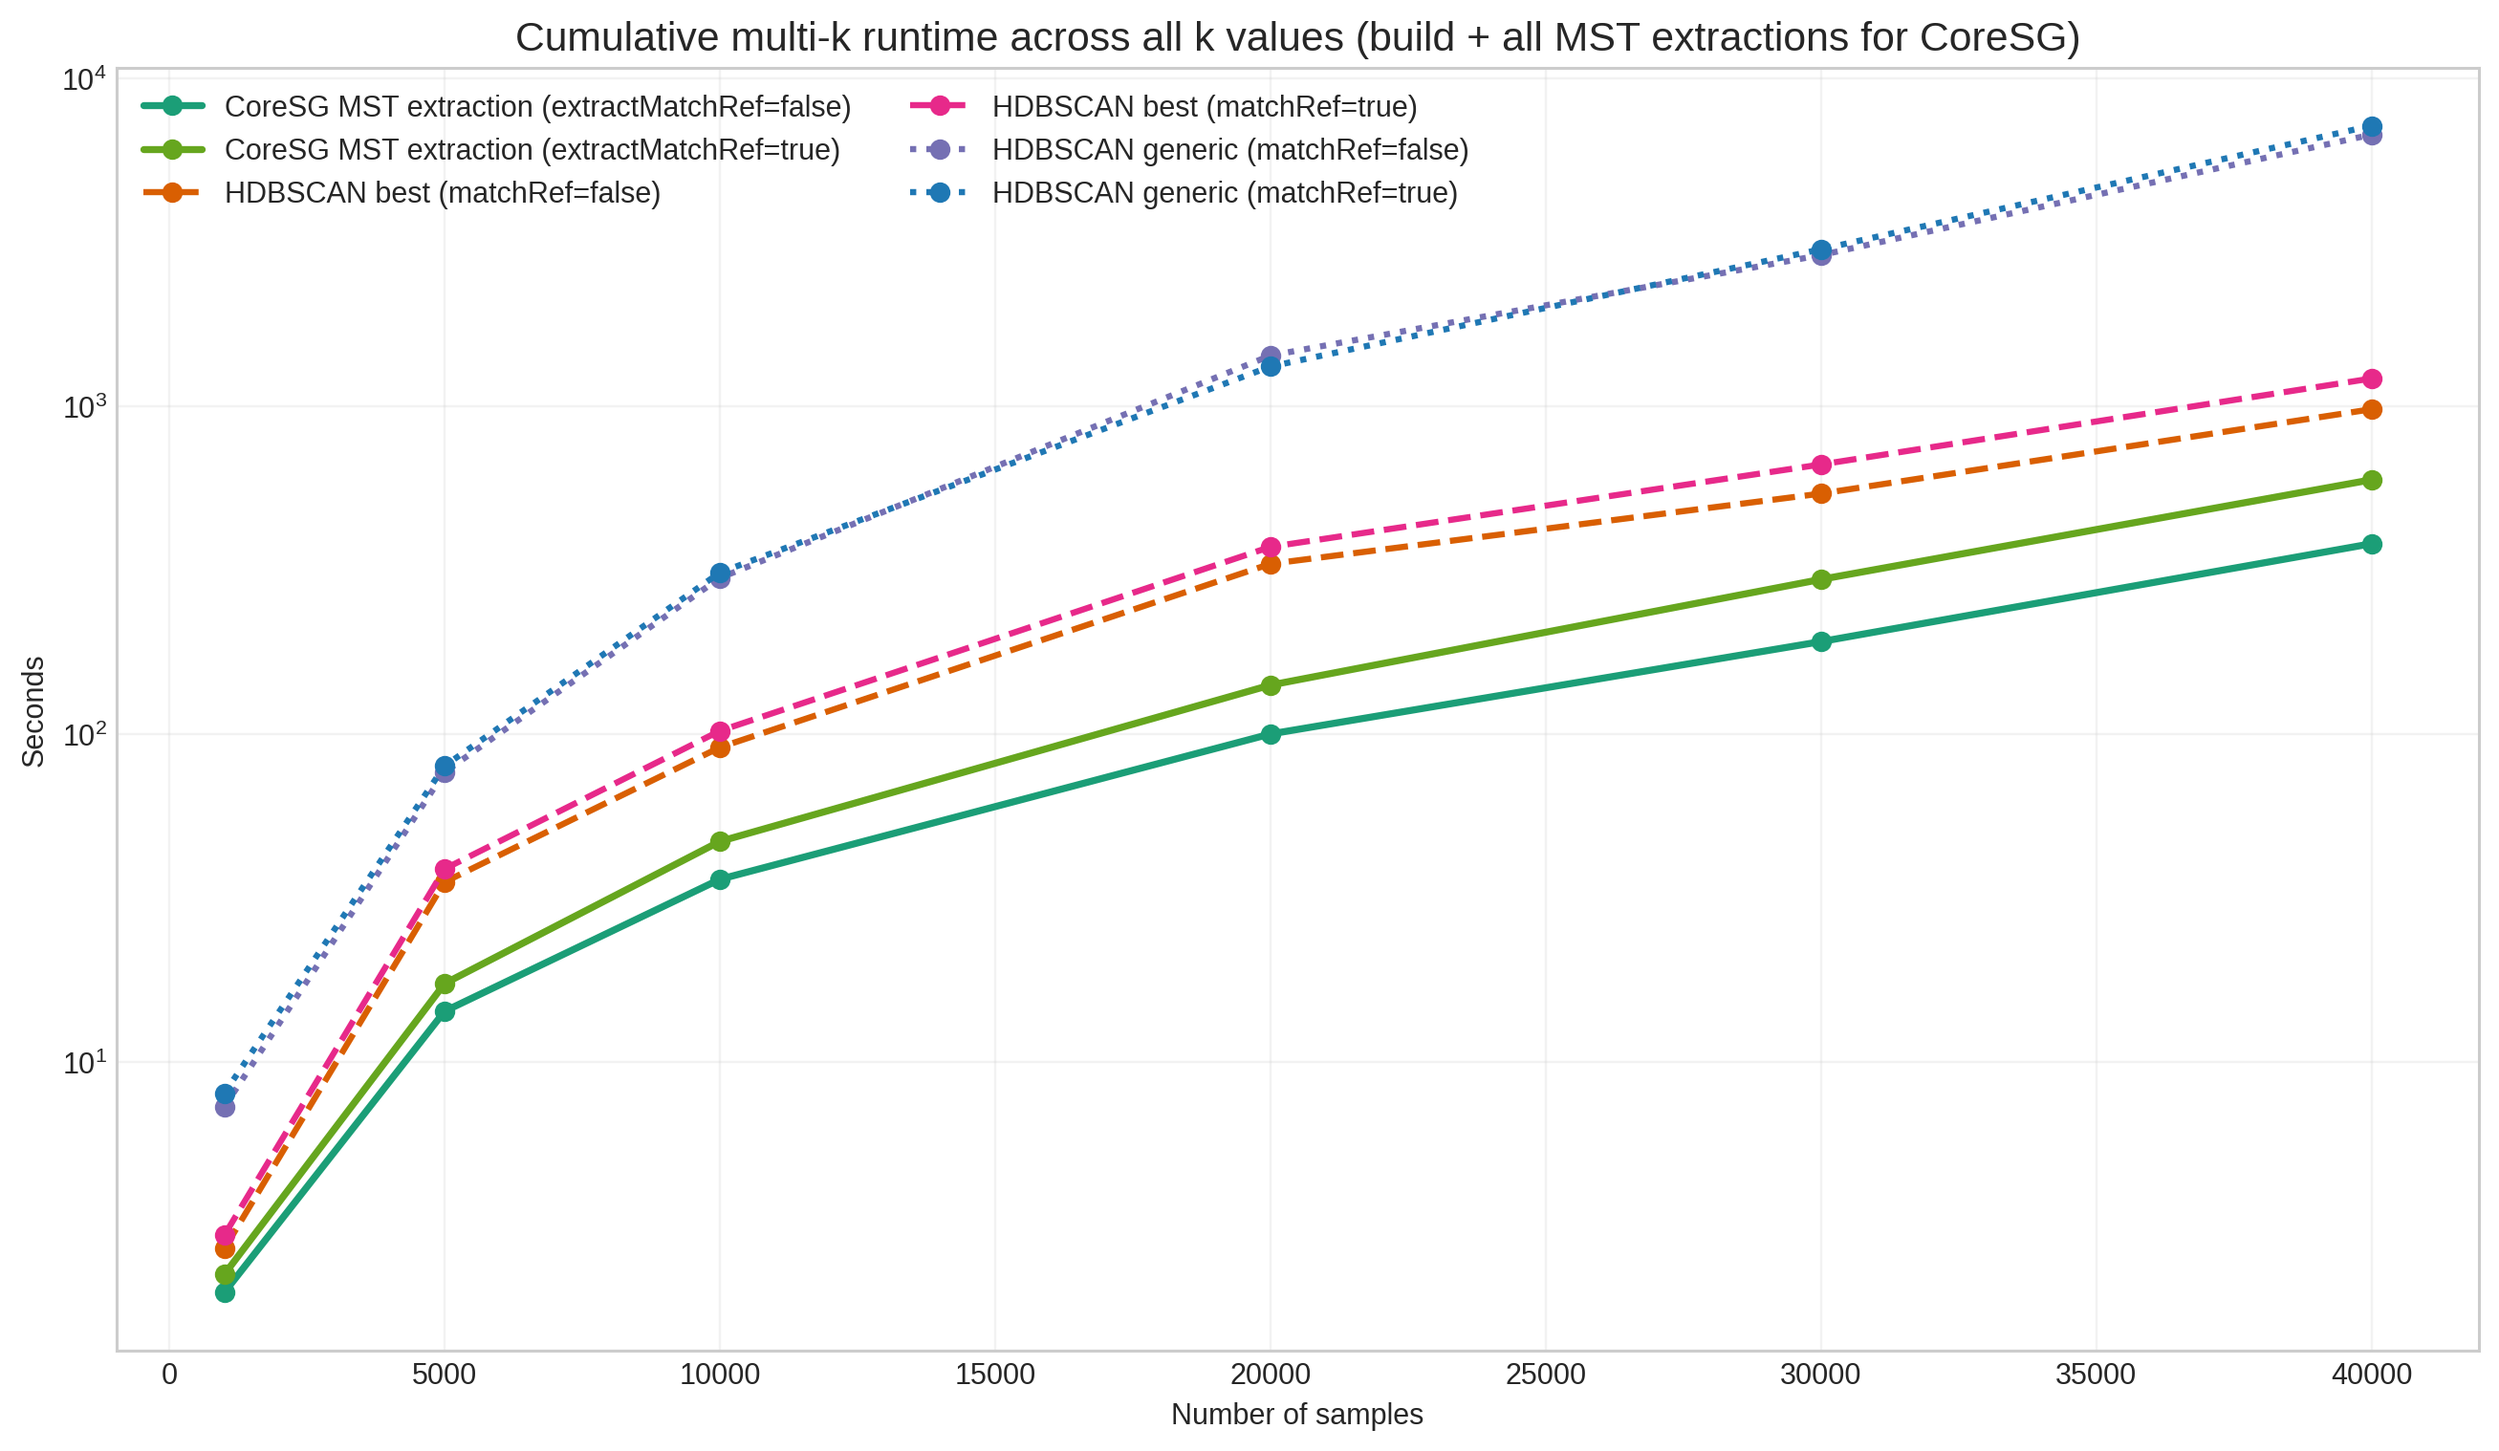
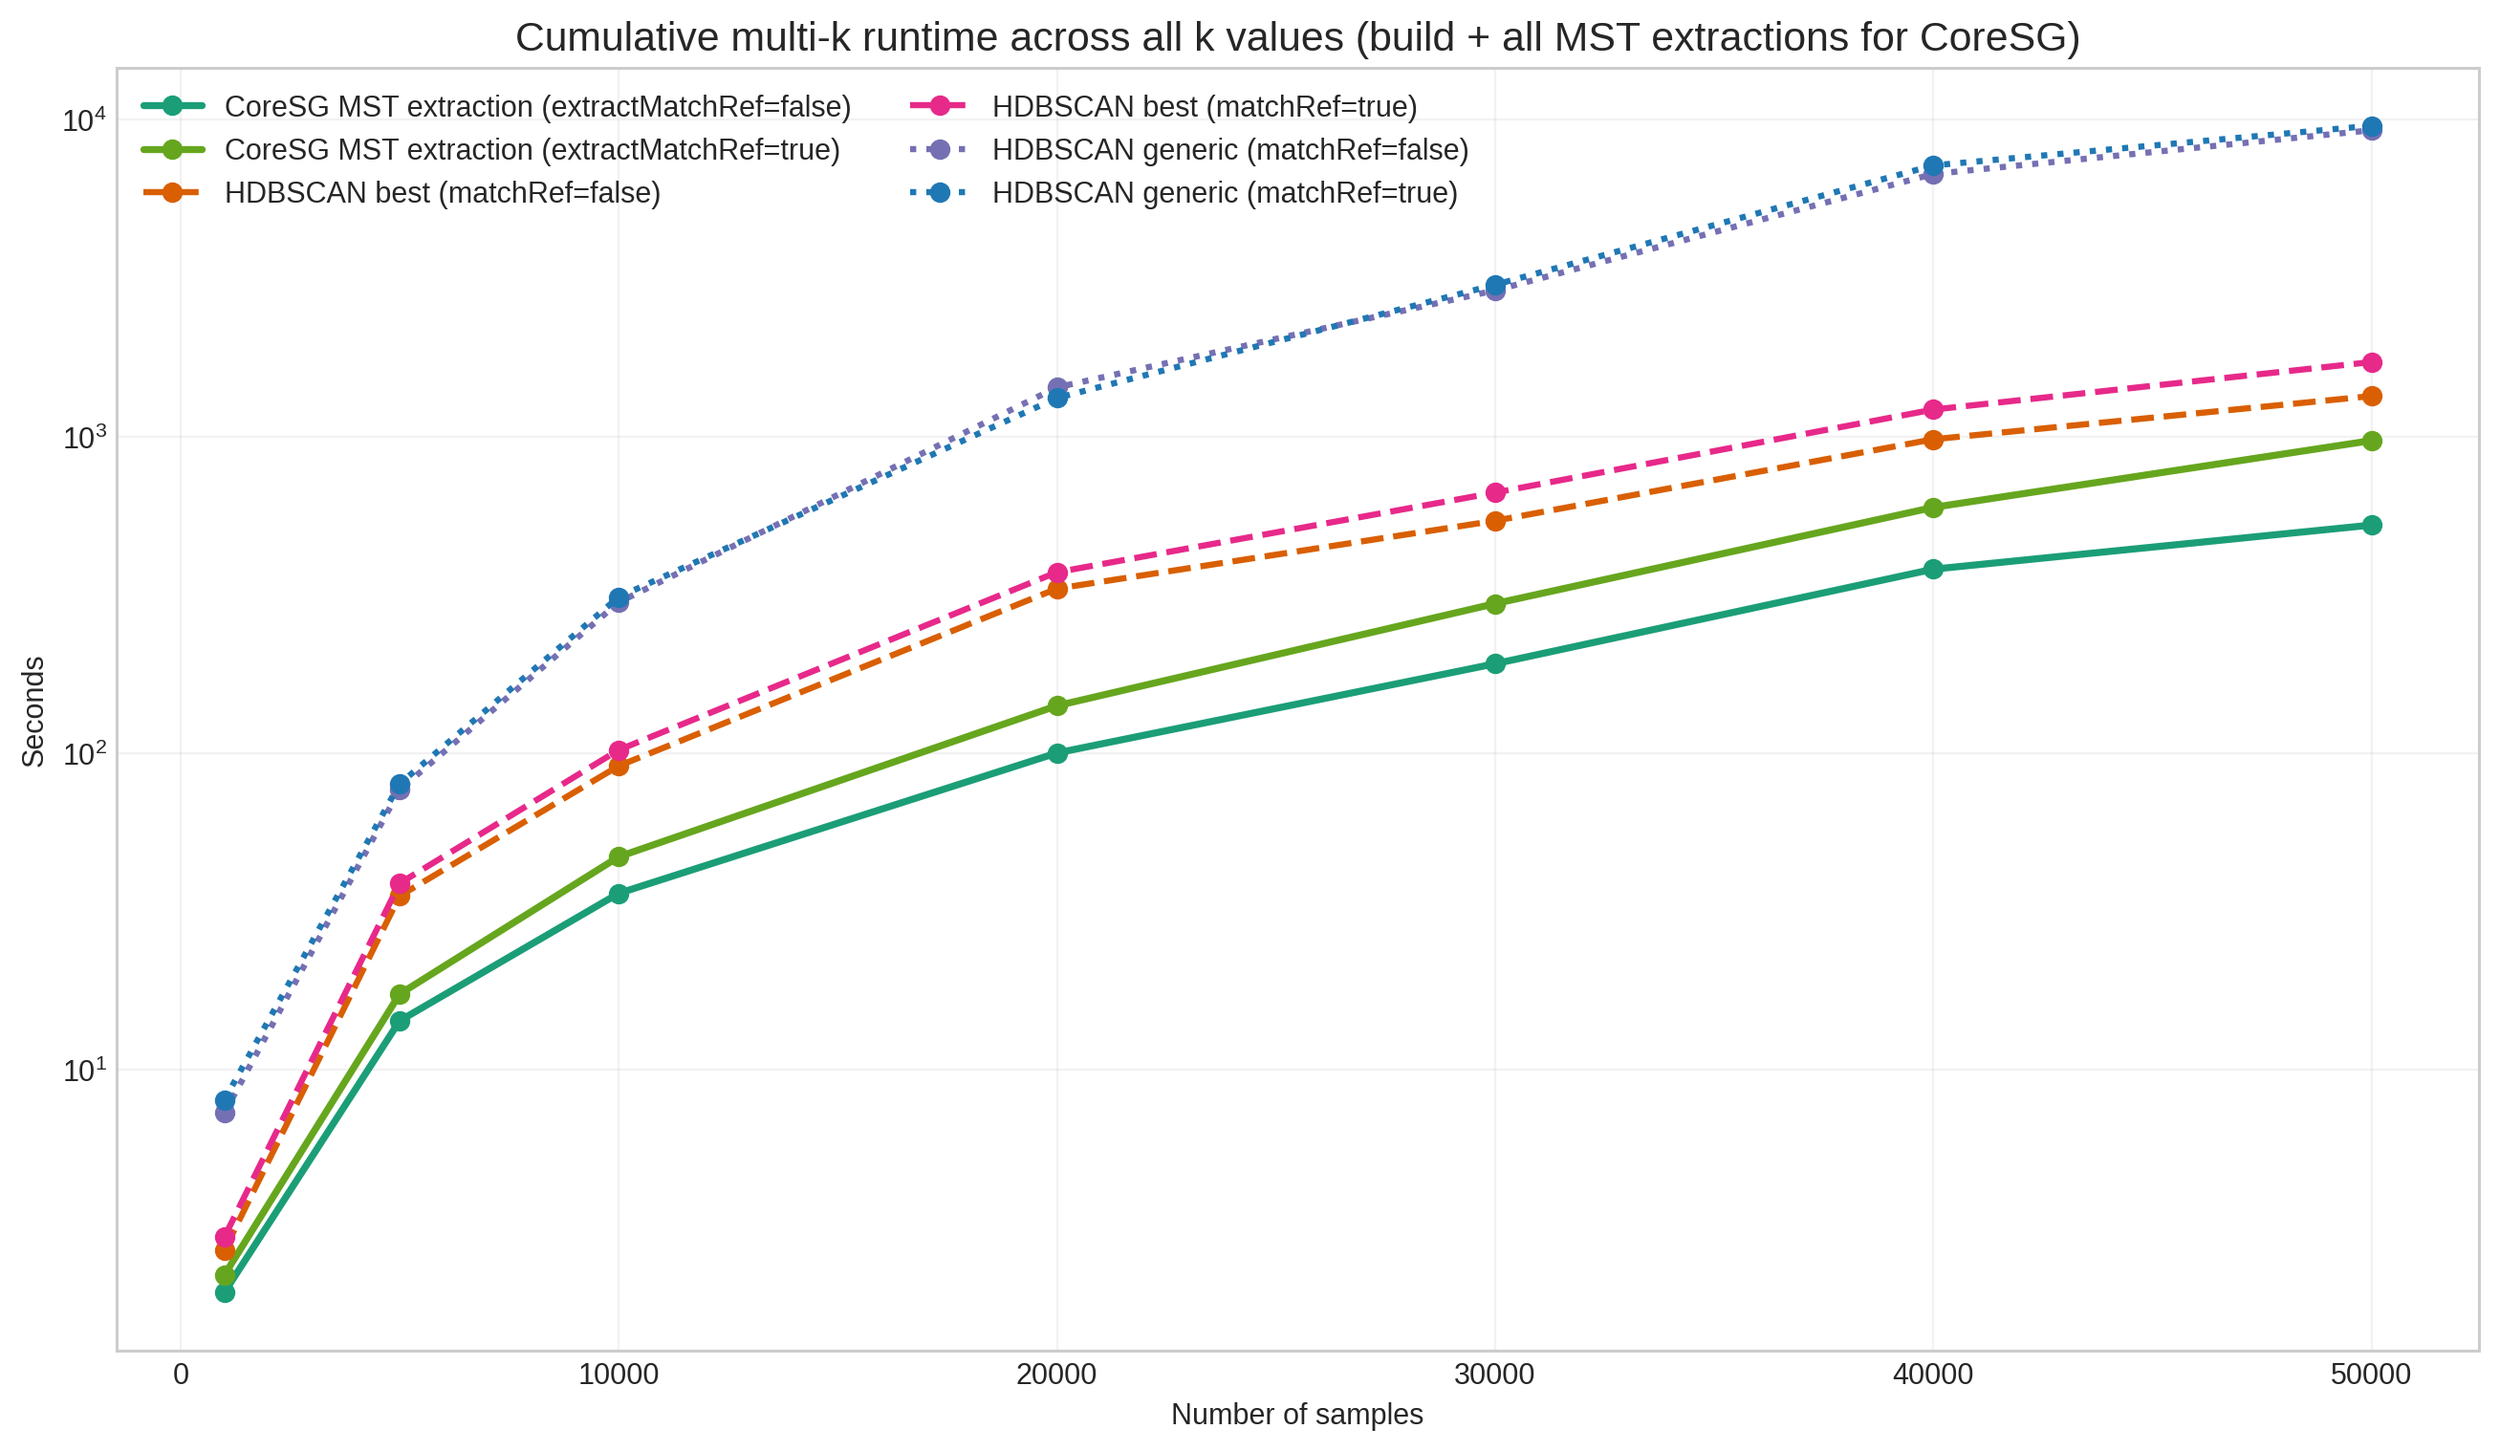
Adding: 50k experiment

diff --git a/benchmarking/generate_report.py b/benchmarking/generate_report.py
@@ -499,6 +499,8 @@ def build_report(
     k_min = int(df["k"].min())
     k_max = int(df["k"].max())
     n_k_values = int(df["k"].nunique())
+    sample_sizes = sorted(df["n_samples"].dropna().astype(int).unique())
+    sample_sizes_literal = ", ".join(str(value) for value in sample_sizes)
 
     best_table = best_summary.copy()
     best_table["CoreSG cumulative mean ± std (s)"] = best_table.apply(
@@ -616,7 +618,7 @@ The central hypothesis is that CoreSG pays a higher up-front construction cost, 
 
 The CSV files in [`benchmarking/`](./) cover synthetic datasets with the following settings:
 
-- `n_samples` in `{{1000, 5000, 10000, 20000, 30000, 40000}}`
+- `n_samples` in `{{{sample_sizes_literal}}}`
 - `n_features = {n_features}`
 - `centers = {centers}`
 - `seed = {seed}`

diff --git a/benchmarking/script.py b/benchmarking/script.py
@@ -423,3 +423,16 @@ def main() -> None:
 
 if __name__ == "__main__":
     main()
+
+
+def selection_sort(arr):
+    n = len(arr)
+    for i in range(n):
+        min_idx = i
+        for j in range(i, n):
+            if arr[j] < arr[min_idx]:
+                min_idx = j
+        temp = arr[min_idx]
+        arr[min_idx] = arr[i]
+        arr[i] = temp
+    return arr

diff --git a/benchmarking/benchmark_report.md b/benchmarking/benchmark_report.md
@@ -16,7 +16,7 @@ The central hypothesis is that CoreSG pays a higher up-front construction cost, 
 
 The CSV files in [`benchmarking/`](./) cover synthetic datasets with the following settings:
 
-- `n_samples` in `{1000, 5000, 10000, 20000, 30000, 40000}`
+- `n_samples` in `{1000, 5000, 10000, 20000, 30000, 40000, 50000}`
 - `n_features = 20`
 - `centers = 10`
 - `seed = 42`
@@ -67,6 +67,7 @@ The fastest CoreSG configuration is consistently **`extractMatchRef=false`**, an
 | 20000 | CoreSG MST extraction (extractMatchRef=false) | 100.21 ± 0.16 | HDBSCAN best (matchRef=false) | 331.03 ± 0.54 | 3.30x | 69.7% |
 | 30000 | CoreSG MST extraction (extractMatchRef=false) | 191.72 ± 0.49 | HDBSCAN best (matchRef=false) | 542.19 ± 0.65 | 2.83x | 64.6% |
 | 40000 | CoreSG MST extraction (extractMatchRef=false) | 381.33 ± 24.86 | HDBSCAN best (matchRef=false) | 980.50 ± 10.10 | 2.57x | 61.1% |
+| 50000 | CoreSG MST extraction (extractMatchRef=false) | 525.45 ± 34.21 | HDBSCAN best (matchRef=false) | 1342.44 ± 16.98 | 2.55x | 60.9% |
 
 These results show that CoreSG already becomes advantageous at `n=1000` and that the cumulative advantage generally increases with dataset size. The most favorable point against the best HDBSCAN baseline occurs at `n=20000`, where CoreSG reaches **3.30x** speedup and **69.7%** cumulative runtime reduction.
 
@@ -100,7 +101,7 @@ Figure 4 reports the speedup of the fastest CoreSG configuration over each HDBSC
 
 ![Speedup heatmap](./report_assets/speedup_heatmap.png)
 
-The heatmap reinforces two conclusions. First, CoreSG is faster than every HDBSCAN variant in the repeated multi-`k` scenario. Second, the largest gains occur against the generic HDBSCAN variants, where the cumulative execution penalty is especially high. On average, `HDBSCAN generic (matchRef=false)` is about **4.12x** slower than `HDBSCAN best (matchRef=false)` even before considering the additional CoreSG advantage.
+The heatmap reinforces two conclusions. First, CoreSG is faster than every HDBSCAN variant in the repeated multi-`k` scenario. Second, the largest gains occur against the generic HDBSCAN variants, where the cumulative execution penalty is especially high. On average, `HDBSCAN generic (matchRef=false)` is about **4.52x** slower than `HDBSCAN best (matchRef=false)` even before considering the additional CoreSG advantage.
 
 ## 4. Detailed Pairwise Analysis
 
@@ -117,8 +118,9 @@ This section compares the best CoreSG configuration, **CoreSG MST extraction (`e
 | 20000 | 100.21 | 0.16 | CoreSG MST extraction (extractMatchRef=true) | 141.25 | 0.23 | 41.04 | 1.41x | 29.1% |
 | 30000 | 191.72 | 0.49 | CoreSG MST extraction (extractMatchRef=true) | 296.81 | 1.65 | 105.09 | 1.55x | 35.4% |
 | 40000 | 381.33 | 24.86 | CoreSG MST extraction (extractMatchRef=true) | 597.55 | 19.58 | 216.23 | 1.57x | 36.2% |
+| 50000 | 525.45 | 34.21 | CoreSG MST extraction (extractMatchRef=true) | 971.22 | 41.82 | 445.78 | 1.85x | 45.9% |
 
-CoreSG is faster than **CoreSG MST extraction (extractMatchRef=true)** for every tested dataset size. The advantage ranges from **1.14x** at `n=1000` to **1.57x** at `n=40000`. In absolute terms, the largest time gap appears at `n=40000`, where CoreSG saves **216.23 s** over the full multi-`k` experiment.
+CoreSG is faster than **CoreSG MST extraction (extractMatchRef=true)** for every tested dataset size. The advantage ranges from **1.14x** at `n=1000` to **1.85x** at `n=50000`. In absolute terms, the largest time gap appears at `n=50000`, where CoreSG saves **445.78 s** over the full multi-`k` experiment.
 
 
 ### Best CoreSG vs. HDBSCAN best (matchRef=false)
@@ -131,8 +133,9 @@ CoreSG is faster than **CoreSG MST extraction (extractMatchRef=true)** for every
 | 20000 | 100.21 | 0.16 | HDBSCAN best (matchRef=false) | 331.03 | 0.54 | 230.81 | 3.30x | 69.7% |
 | 30000 | 191.72 | 0.49 | HDBSCAN best (matchRef=false) | 542.19 | 0.65 | 350.48 | 2.83x | 64.6% |
 | 40000 | 381.33 | 24.86 | HDBSCAN best (matchRef=false) | 980.50 | 10.10 | 599.18 | 2.57x | 61.1% |
+| 50000 | 525.45 | 34.21 | HDBSCAN best (matchRef=false) | 1342.44 | 16.98 | 817.00 | 2.55x | 60.9% |
 
-CoreSG is faster than **HDBSCAN best (matchRef=false)** for every tested dataset size. The advantage ranges from **1.36x** at `n=1000` to **3.30x** at `n=20000`. In absolute terms, the largest time gap appears at `n=40000`, where CoreSG saves **599.18 s** over the full multi-`k` experiment.
+CoreSG is faster than **HDBSCAN best (matchRef=false)** for every tested dataset size. The advantage ranges from **1.36x** at `n=1000` to **3.30x** at `n=20000`. In absolute terms, the largest time gap appears at `n=50000`, where CoreSG saves **817.00 s** over the full multi-`k` experiment.
 
 
 ### Best CoreSG vs. HDBSCAN best (matchRef=true)
@@ -145,8 +148,9 @@ CoreSG is faster than **HDBSCAN best (matchRef=false)** for every tested dataset
 | 20000 | 100.21 | 0.16 | HDBSCAN best (matchRef=true) | 372.93 | 0.57 | 272.71 | 3.72x | 73.1% |
 | 30000 | 191.72 | 0.49 | HDBSCAN best (matchRef=true) | 665.30 | 8.97 | 473.58 | 3.47x | 71.2% |
 | 40000 | 381.33 | 24.86 | HDBSCAN best (matchRef=true) | 1216.81 | 2.46 | 835.48 | 3.19x | 68.7% |
+| 50000 | 525.45 | 34.21 | HDBSCAN best (matchRef=true) | 1718.93 | 3.90 | 1193.48 | 3.27x | 69.4% |
 
-CoreSG is faster than **HDBSCAN best (matchRef=true)** for every tested dataset size. The advantage ranges from **1.49x** at `n=1000` to **3.72x** at `n=20000`. In absolute terms, the largest time gap appears at `n=40000`, where CoreSG saves **835.48 s** over the full multi-`k` experiment.
+CoreSG is faster than **HDBSCAN best (matchRef=true)** for every tested dataset size. The advantage ranges from **1.49x** at `n=1000` to **3.72x** at `n=20000`. In absolute terms, the largest time gap appears at `n=50000`, where CoreSG saves **1193.48 s** over the full multi-`k` experiment.
 
 
 ### Best CoreSG vs. HDBSCAN generic (matchRef=false)
@@ -159,8 +163,9 @@ CoreSG is faster than **HDBSCAN best (matchRef=true)** for every tested dataset 
 | 20000 | 100.21 | 0.16 | HDBSCAN generic (matchRef=false) | 1429.84 | 30.68 | 1329.62 | 14.27x | 93.0% |
 | 30000 | 191.72 | 0.49 | HDBSCAN generic (matchRef=false) | 2894.76 | 3.89 | 2703.04 | 15.10x | 93.4% |
 | 40000 | 381.33 | 24.86 | HDBSCAN generic (matchRef=false) | 6747.33 | 17.73 | 6366.01 | 17.69x | 94.3% |
+| 50000 | 525.45 | 34.21 | HDBSCAN generic (matchRef=false) | 9272.92 | 23.85 | 8747.47 | 17.65x | 94.3% |
 
-CoreSG is faster than **HDBSCAN generic (matchRef=false)** for every tested dataset size. The advantage ranges from **3.68x** at `n=1000` to **17.69x** at `n=40000`. In absolute terms, the largest time gap appears at `n=40000`, where CoreSG saves **6366.01 s** over the full multi-`k` experiment.
+CoreSG is faster than **HDBSCAN generic (matchRef=false)** for every tested dataset size. The advantage ranges from **3.68x** at `n=1000` to **17.69x** at `n=40000`. In absolute terms, the largest time gap appears at `n=50000`, where CoreSG saves **8747.47 s** over the full multi-`k` experiment.
 
 
 ### Best CoreSG vs. HDBSCAN generic (matchRef=true)
@@ -173,8 +178,9 @@ CoreSG is faster than **HDBSCAN generic (matchRef=false)** for every tested data
 | 20000 | 100.21 | 0.16 | HDBSCAN generic (matchRef=true) | 1323.41 | 1.18 | 1223.20 | 13.21x | 92.4% |
 | 30000 | 191.72 | 0.49 | HDBSCAN generic (matchRef=true) | 3015.08 | 17.94 | 2823.37 | 15.73x | 93.6% |
 | 40000 | 381.33 | 24.86 | HDBSCAN generic (matchRef=true) | 7181.05 | 51.97 | 6799.72 | 18.83x | 94.7% |
+| 50000 | 525.45 | 34.21 | HDBSCAN generic (matchRef=true) | 9580.93 | 60.08 | 9055.48 | 18.23x | 94.5% |
 
-CoreSG is faster than **HDBSCAN generic (matchRef=true)** for every tested dataset size. The advantage ranges from **4.05x** at `n=1000` to **18.83x** at `n=40000`. In absolute terms, the largest time gap appears at `n=40000`, where CoreSG saves **6799.72 s** over the full multi-`k` experiment.
+CoreSG is faster than **HDBSCAN generic (matchRef=true)** for every tested dataset size. The advantage ranges from **4.05x** at `n=1000` to **18.83x** at `n=40000`. In absolute terms, the largest time gap appears at `n=50000`, where CoreSG saves **9055.48 s** over the full multi-`k` experiment.
 
 
 ## 5. Full Cumulative Statistics
@@ -217,6 +223,12 @@ CoreSG is faster than **HDBSCAN generic (matchRef=true)** for every tested datas
 | 40000 | HDBSCAN best (matchRef=true) | - | - | - | - | 1216.81 | 2.46 | 49 |
 | 40000 | HDBSCAN generic (matchRef=false) | - | - | - | - | 6747.33 | 17.73 | 49 |
 | 40000 | HDBSCAN generic (matchRef=true) | - | - | - | - | 7181.05 | 51.97 | 49 |
+| 50000 | CoreSG MST extraction (extractMatchRef=false) | 329.61 | 34.21 | 195.84 | 0.26 | 525.45 | 34.21 | 49 |
+| 50000 | CoreSG MST extraction (extractMatchRef=true) | 367.84 | 41.70 | 603.39 | 3.19 | 971.22 | 41.82 | 49 |
+| 50000 | HDBSCAN best (matchRef=false) | - | - | - | - | 1342.44 | 16.98 | 49 |
+| 50000 | HDBSCAN best (matchRef=true) | - | - | - | - | 1718.93 | 3.90 | 49 |
+| 50000 | HDBSCAN generic (matchRef=false) | - | - | - | - | 9272.92 | 23.85 | 49 |
+| 50000 | HDBSCAN generic (matchRef=true) | - | - | - | - | 9580.93 | 60.08 | 49 |
 
 The table above makes the `mean ± std` reporting explicit for both the cumulative totals and, where applicable, the two internal CoreSG components: build cost and total MST extraction cost.
 
